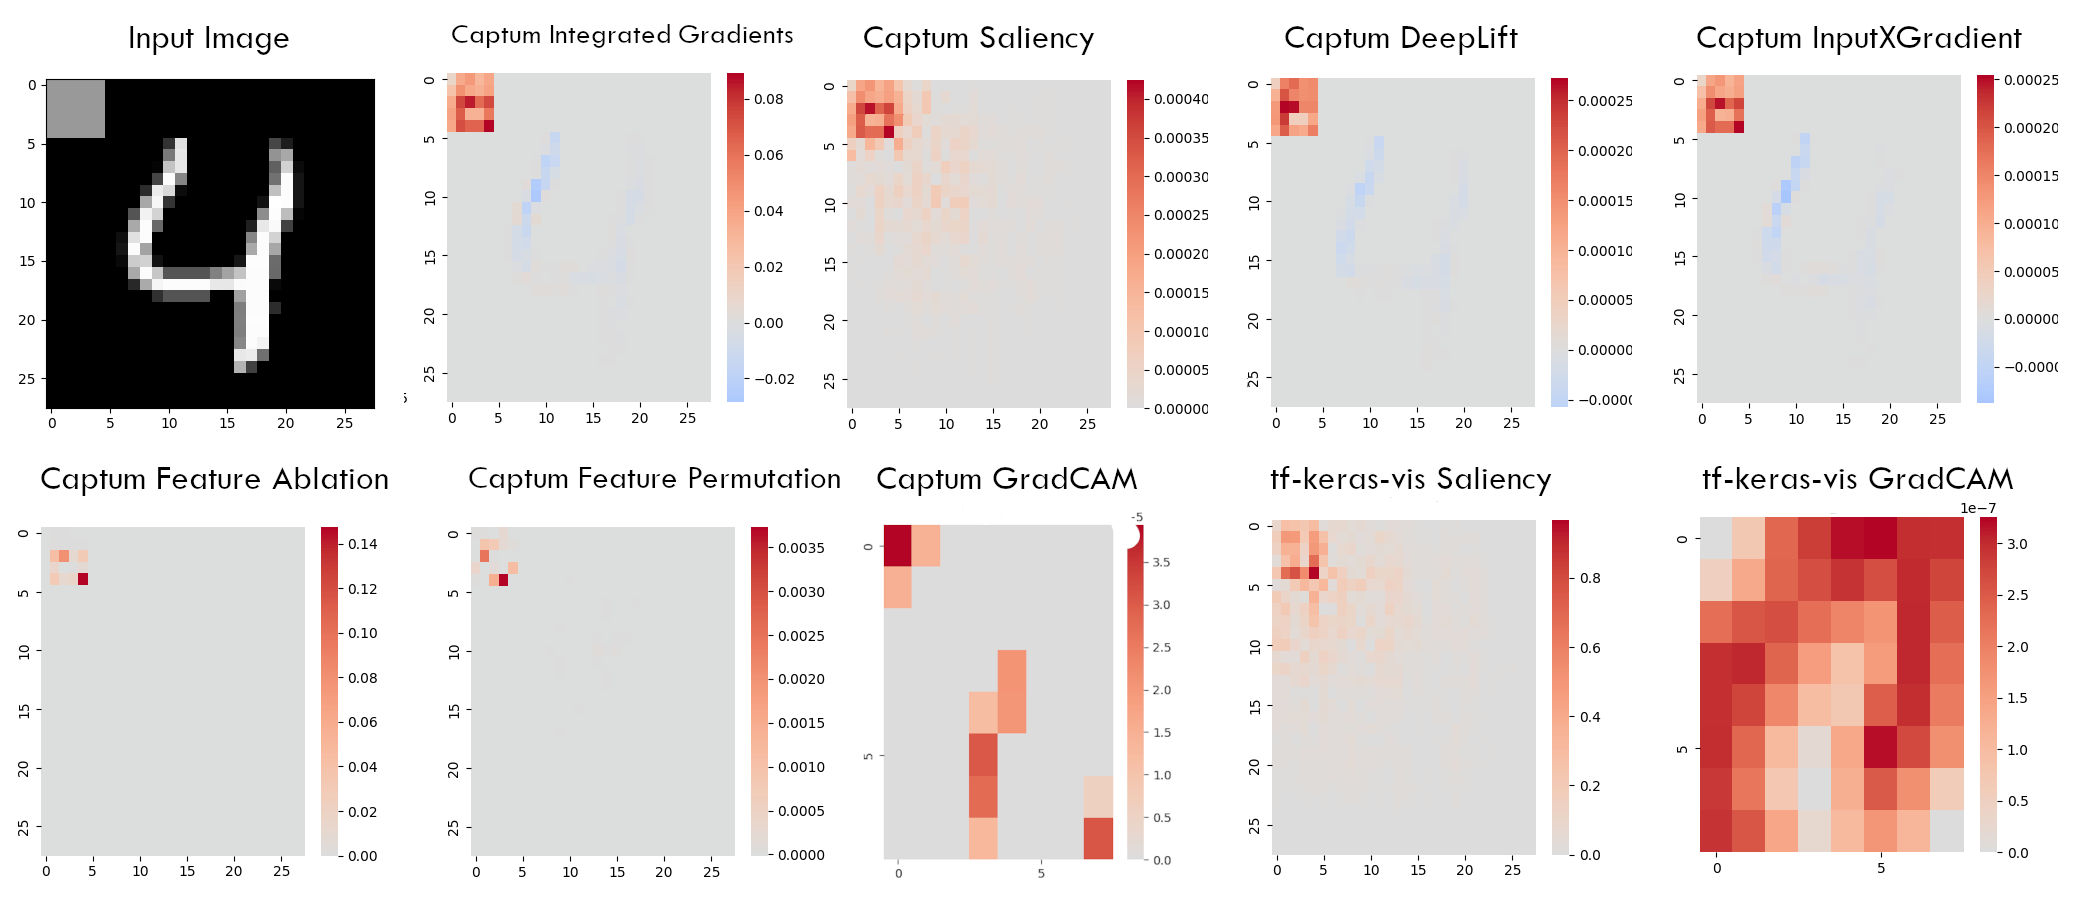
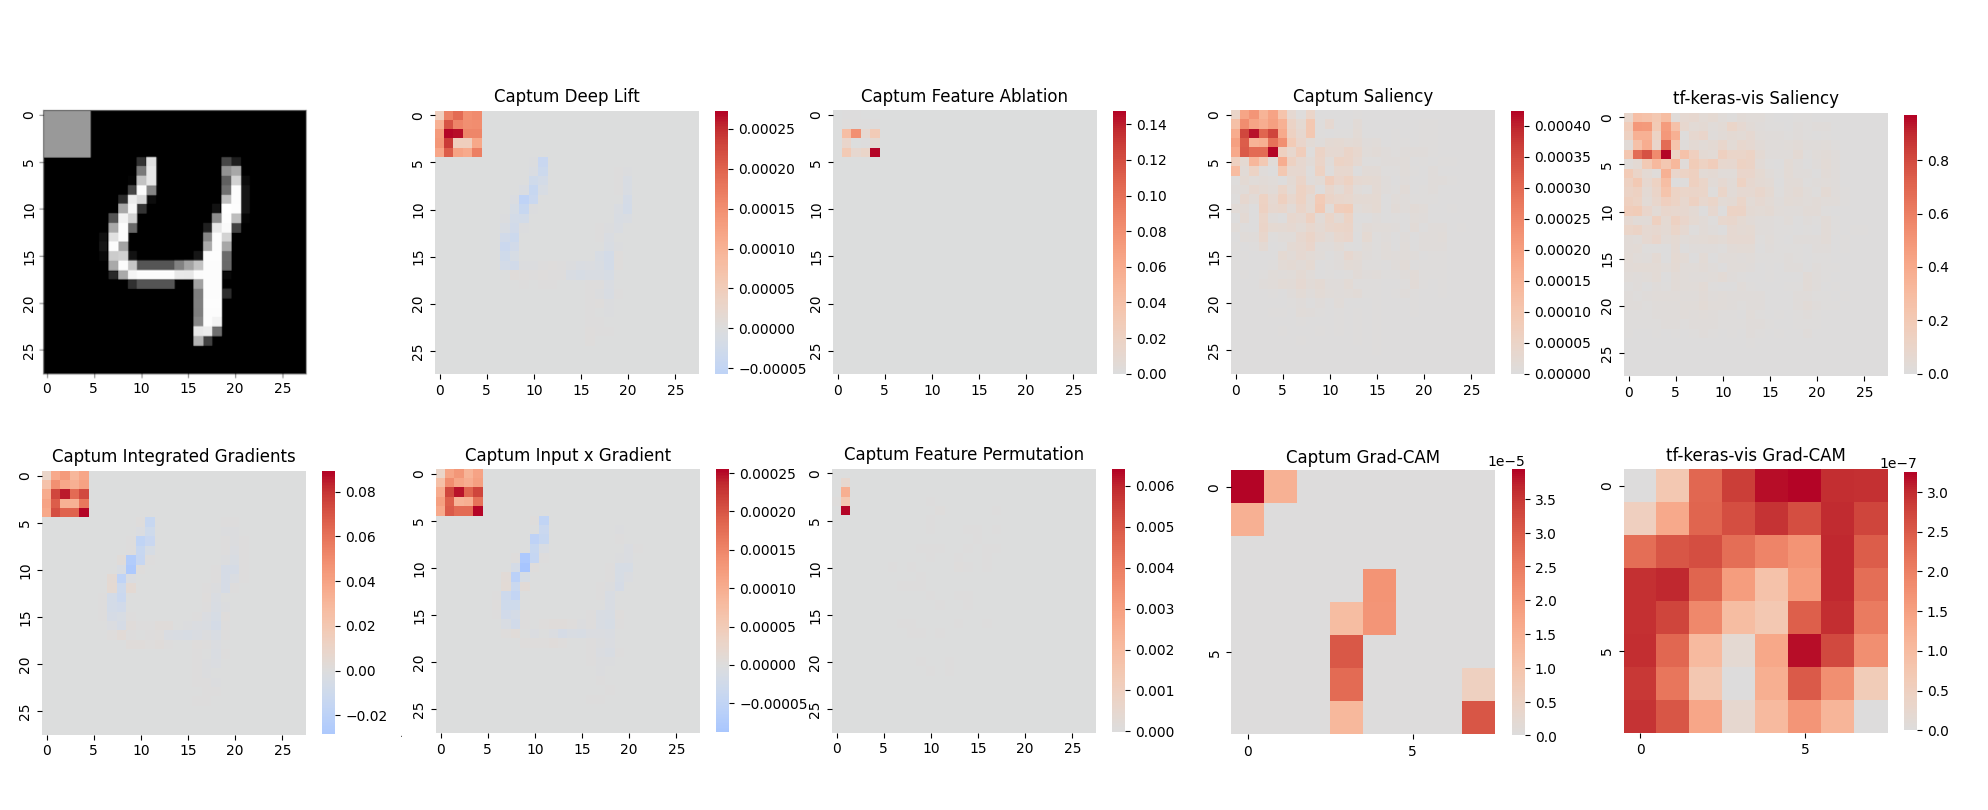
update evaluation figures

diff --git a/unittests/compare_captum_tf_keras_vis.py b/unittests/compare_captum_tf_keras_vis.py
@@ -44,7 +44,8 @@ def torch_saliency(use_additional_args=True):
                                            dummy_input=mnist_x, init_args=keras_vis_init_args,
                                            exec_args=keras_vis_exec_args)
     n_samples = 8  # mnist_x.size()[0]
-    plot(mnist_x, mnist_y, res_captum, res_tf_keras_vis, n_samples, 'Saliency', 'comparison_torch_saliency.png')
+    plot(mnist_x, mnist_y, res_captum, res_tf_keras_vis, n_samples, 'Saliency',
+         f'comparison_torch_saliency{"_add_args" if use_additional_args else ""}.png')
 
 
 def torch_gradcam(interpolate=False, use_additional_args=True):
@@ -74,8 +75,8 @@ def torch_gradcam(interpolate=False, use_additional_args=True):
                                            dummy_input=mnist_x,
                                            exec_args=keras_vis_exec_args)
     n_samples = 8  # mnist_x.size()[0]
-    file_name = 'comparison_torch_gradcam_scaled_to_original.png' if interpolate else 'comparison_torch_gradcam.png'
-    plot(mnist_x, mnist_y.tolist(), res_captum, res_tf_keras_vis, n_samples, 'GradCAM', file_name)
+    file_name = f'comparison_torch{"_add_args" if use_additional_args else ""}_gradcam{"_scaled_to_original" if interpolate else ""}.png'
+    plot(mnist_x, mnist_y.tolist(), res_captum, res_tf_keras_vis, n_samples, 'Grad-CAM', file_name)
 
 
 def tf_saliency(use_additional_args=True):
@@ -96,7 +97,7 @@ def tf_saliency(use_additional_args=True):
                                            exec_args=keras_vis_exec_args)
     n_samples = 8  # mnist_x.shape[0]
     plot(mnist_x, mnist_y, res_captum, res_tf_keras_vis, n_samples, 'Saliency',
-         'comparison_tf_saliency_no_model_modifier.png')
+         f'comparison_tf_saliency{"_add_args" if use_additional_args else ""}.png')
 
 
 def tf_gradcam(interpolate=False, use_additional_args=True):
@@ -128,10 +129,10 @@ def tf_gradcam(interpolate=False, use_additional_args=True):
                                            dummy_input=mnist_x[:64], init_args={},
                                            exec_args=keras_vis_exec_args)
     n_samples = 8  # mnist_x.shape[0]
-    file_name = 'comparison_tf_gradcam_scaled_to_original.png' if interpolate else 'comparison_tf_gradcam.png'
+    file_name = f'comparison_tf{"_add_args" if use_additional_args else ""}_gradcam{"_scaled_to_original" if interpolate else ""}.png'
     if not isinstance(res_tf_keras_vis, np.ndarray):
         res_tf_keras_vis = res_tf_keras_vis.numpy()
-    plot(mnist_x, mnist_y, res_captum, res_tf_keras_vis, n_samples, 'GradCAM', file_name)
+    plot(mnist_x, mnist_y, res_captum, res_tf_keras_vis, n_samples, 'Grad-CAM', file_name)
 
 
 def plot(data_x, data_y, res_captum, res_tf_keras_vis, n_samples, methodname, filename):
@@ -154,15 +155,18 @@ def plot(data_x, data_y, res_captum, res_tf_keras_vis, n_samples, methodname, fi
         figure.add_subplot(4, n_samples, counter + n_samples)
         plt.title(f'Captum {methodname}')
         seaborn.heatmap(res_captum[i].squeeze(), cmap="coolwarm",  # vmin=-attr_total_max, vmax=attr_total_max,
-                        center=0, xticklabels=5, yticklabels=5)
+                        center=0, xticklabels=5, yticklabels=5, square=True,
+                        cbar_kws={'shrink': 0.8, 'pad': 0.05})
         figure.add_subplot(4, n_samples, counter + 2 * n_samples)
         plt.title(f'tf-keras-vis {methodname}')
         seaborn.heatmap(res_tf_keras_vis[i], cmap="coolwarm",  # vmin=-attr_total_max, vmax=attr_total_max,
-                        center=0, xticklabels=5, yticklabels=5)
+                        center=0, xticklabels=5, yticklabels=5, square=True,
+                        cbar_kws={'shrink': 0.8, 'pad': 0.05})
         figure.add_subplot(4, n_samples, counter + 3 * n_samples)
         plt.title('Captum - tf-keras-vis')
         seaborn.heatmap(res_captum[i].squeeze() - res_tf_keras_vis[i],  # vmin=-diff_total_max, vmax=diff_total_max,
-                        cmap="coolwarm", center=0, xticklabels=5, yticklabels=5)
+                        cmap="coolwarm", center=0, xticklabels=5, yticklabels=5, square=True,
+                        cbar_kws={'shrink': 0.8, 'pad': 0.05})
         # figure.add_subplot(6, n_samples, counter + 4 * n_samples)
         # plt.title('Captum / (Captum + tf-keras-vis)')
         # seaborn.heatmap(res_captum[i].squeeze() / (res_captum[i].squeeze() + res_tf_keras_vis[i]), cmap="coolwarm",
@@ -198,9 +202,13 @@ def ceil_power_of_10(x):
 if __name__ == '__main__':
     # gradcam: don't combine interpolate=False and use_additional_args=False -> without additional args, tf-keras-vis
     # interpolates by default, leading to a size-mismatch with captum
-    # tf_gradcam(interpolate=False, use_additional_args=False)
-    tf_gradcam(interpolate=True, use_additional_args=False)
-    # torch_gradcam(interpolate=False, use_additional_args=False)
+    # tf_gradcam(interpolate=False, use_additional_args=True)
+    # tf_gradcam(interpolate=True, use_additional_args=False)
+    # tf_gradcam(interpolate=True, use_additional_args=True)
+    # torch_gradcam(interpolate=False, use_additional_args=True)
     # torch_gradcam(interpolate=True, use_additional_args=False)
-    # torch_saliency(use_additional_args=False)
-    # tf_saliency(use_additional_args=False)
+    # torch_gradcam(interpolate=True, use_additional_args=True)
+    torch_saliency(use_additional_args=False)
+    torch_saliency(use_additional_args=True)
+    tf_saliency(use_additional_args=False)
+    tf_saliency(use_additional_args=True)

diff --git a/unittests/TestCleverHans.py b/unittests/TestCleverHans.py
@@ -50,15 +50,35 @@ class TestCleverHans(unittest.TestCase):
                 seaborn.heatmap(attr[i].squeeze(), cmap="coolwarm",  # vmin=-attr_total_max, vmax=attr_total_max,
                                 center=0, xticklabels=5, yticklabels=5, square=True,
                                 cbar_kws={'shrink': 0.8, 'pad': 0.05})
-                plt.savefig('clever_hans_results_captum.png')
+        plt.savefig('clever_hans_results_captum.png', bbox_inches='tight')
         plt.show()
 
     def test_captum_gradcam(self):
         n_samples = 8
-        attr = perform_attribution(self.tf_net, method_keys.GRAD_CAM, plot=True, toolset=toolset_keys.CAPTUM,
+        counter = 1
+        figure = plt.figure(figsize=(5 * n_samples, 10))
+
+        for i in range(n_samples):
+            figure.add_subplot(2, n_samples, counter)
+            counter += 1
+            plt.title(f'Label: {self.y_test[i]}')
+            plt.imshow(self.x_test[i], cmap="gray")
+
+        attr = perform_attribution(self.tf_net, method_keys.GRAD_CAM, plot=False, toolset=toolset_keys.CAPTUM,
                                    init_args={'layer': 'Conv_1'},
                                    exec_args={'inputs': self.x_test[:n_samples], 'target': self.y_test[:n_samples],
                                               'relu_attributions': True})
+        for i in range(n_samples):
+            figure.add_subplot(2, n_samples, counter)
+            counter += 1
+
+            plt.title(f'Captum Grad-CAM')
+            seaborn.heatmap(attr[i].squeeze(), cmap="coolwarm",  # vmin=-attr_total_max, vmax=attr_total_max,
+                            center=0, xticklabels=5, yticklabels=5, square=True,
+                            cbar_kws={'shrink': 0.76, 'pad': 0.05})
+        plt.savefig('clever_hans_captum_gradcam.png', bbox_inches='tight')
+
+    plt.show()
 
     def test_captum_layers(self):
         n_samples = 8
@@ -119,7 +139,7 @@ class TestCleverHans(unittest.TestCase):
                 seaborn.heatmap(attr[i].squeeze(), cmap="coolwarm",  # vmin=-attr_total_max, vmax=attr_total_max,
                                 center=0, xticklabels=5, yticklabels=5, square=True,
                                 cbar_kws={'shrink': 0.76, 'pad': 0.05})
-        plt.savefig('clever_hans_results_tfkerasvis.png')
+        plt.savefig('clever_hans_results_tfkerasvis.png', bbox_inches='tight')
         plt.show()
 
 

diff --git a/results/report.md b/results/report.md
@@ -17,8 +17,9 @@ the results to draw the right conclusions.
 Different algorithms, called introspection methods, have been developed to counteract this problem. They try to explain
 and visualise a networks's behaviour either by attributing the results to certain parts of either the input or of the
 network itself or alternatively by visualising features a network has learned. An example for attribution is the
-Grad-CAM method which allows to visualise the contribution of different parts in the input toward a classification (see [Figure 1a](#figure1a)). Feature visualization on the other hand can be achieved by optimizing a randomized input
-towards a certain goal such as activating a particular neuron (see [Figure 1b](#figure1b)).
+Grad-CAM method which allows to visualise the contribution of different parts in the input toward a classification (
+see [Figure 1a](#figure1a)). Feature visualisation on the other hand can be achieved by optimising an input towards a
+certain goal such as activating a particular neuron (see [Figure 1b](#figure1b)).
 
 
 <div class="row" style="display: flex">
@@ -27,27 +28,25 @@ towards a certain goal such as activating a particular neuron (see [Figure 1b](#
 <div text-align=center class="caption">Figure 1a: Grad-CAM for the classes 'cat' and 'dog'. Source: <a href="#selvaraju2017">Selvaraju et al., 2017</a></div>
 </div>
 <div class="column" style="padding: 10px;">
-<img id="figure1b" src="report_images/feature_vis_example.png" alt="Feature Visualization for a single neuron using existing images (top) and optimization." height=74%/>
-<div text-align=center class="caption">Figure 1b: Feature Visualization for a single neuron using existing images (top) and optimization. Source: <a href="#olah2017">(Olah et al., 2017)</a></div>
+<img id="figure1b" src="report_images/feature_vis_example.png" alt="Feature Visualisation for a single neuron using existing images (top) and optimisation." height=74%/>
+<div text-align=center class="caption">Figure 1b: Feature Visualisation for a single neuron using existing images (top) and optimisation. Source: <a href="#olah2017">(Olah et al., 2017)</a></div>
 </div>
 </div>
 
 For users' convenience, implementations of many of these methods have been packaged and made publicly available in
 toolsets like [Captum](https://captum.ai/) or [tf-keras-vis](https://github.com/keisen/tf-keras-vis). These libraries
 save users the effort of implementing all methods by themselves and make it easy to switch between and compare different
-methods. One limitation of these preimplemented introspection toolsets however is that they are bould to a specific model
-framework, e.g. [PyTorch](https://pytorch.org/) or [TensorFlow](https://www.tensorflow.org/).
+methods. One limitation of these preimplemented introspection toolsets however is that they are bould to a specific
+model framework, e.g. [PyTorch](https://pytorch.org/) or [TensorFlow](https://www.tensorflow.org/).
 
 In practice, this may lead to situations like the following:
 Imagine you have trained a model in TensorFlow and now want to apply the attribution method Integrated
 Gradients [(Sudararajan, 2017)](#sundararajan2017) to it. You find out that this particular method is already
-implemented in Captum, a PyTorch toolset, but not in the TensorFlow toolset tf-keras-vis. This means you have three
-options: Rebuild your model in PyTorch so you can use the PyTorch toolset, implement the method yourself or don't use
-the method at all.
+implemented in Captum, a PyTorch toolset, but not in the TensorFlow toolset tf-keras-vis. This means that the only way
+to use your desired method is to transform your TensorFlow model into an equivalent PyTorch model.
 
-None of these options is optimal. It would be more convenient and efficient to re-use the already existing Integrated
-Gradients implementation while keeping the TensorFlow model. For bridging the gap between model and introspection
-method, we have developed the tool **MetaNNvis**.
+Since performing this manually requires a lot of effort, we have build a tool, called **MetaNNvis**, that automates this
+process.
 
 MetaNNvis acts as an interface between the user and the introspection methods. The user just puts in their model and
 their favoured introspection method. Based on that, the tool selects an implementation, and, if the framework of the
@@ -64,9 +63,9 @@ will evaluate the tool and use it to compare different implementations of the sa
 # Supported Toolsets
 
 The goal of this project is to connect models and introspection methods from different frameworks. Since TensorFlow,
-more precisely Tensorflow 2.0, and PyTorch are currently the most used machine learning frameworks, the interaction
+more precisely Tensorflow 2.x, and PyTorch are currently the most used machine learning frameworks, the interaction
 between models and methods from these two frameworks is the most interesting application for our approach. Therefore, we
-have chosen one toolset from each framework, Captum from PyTorch and tf-keras-vis from TensorFlow. We will take a closer
+have chosen one toolset for each framework, Captum from PyTorch and tf-keras-vis from TensorFlow. We will take a closer
 look at them in the following.
 
 ## Captum
@@ -81,14 +80,14 @@ open-source and built to be extensible by new algorithms.
 ## tf-keras-vis
 
 The open-source library [tf-keras-vis](https://github.com/keisen/tf-keras-vis) contains visualisation methods for
-TensorFlow 2.0 models. It supports both feature visualisation with activation maximisation as well as attribution
+TensorFlow 2.x models. It supports both feature visualisation with activation maximisation as well as attribution
 methods, more precisely saliency maps and different variants of class activation maps. tf-keras-vis has been developed
 for image inputs and has been designed to be light-weight and flexible.
 
 ## Method selection
 
 Especially Captum implements a large number of methods: 36 in total, counting primary, layer and neuron variants
-seperately. In order to limit the scope of this project, we have chosen prioritize the introspection methods provided by
+seperately. In order to limit the scope of this project, we have chosen prioritise the introspection methods provided by
 Captum and tf-keras-vis. The result can be seen in the table below.
 
 | Method  | Category  | Priority  |
@@ -132,7 +131,7 @@ tool.
 
 The aim of this selection is to capture a wide range of different approaches, for instance including both gradient-based
 and perturbation-based methods. This also means that of similar method pairs like Feature Ablation and Occlusion,
-usually only one method is included. Basic, often-used methods are given an advantage compared to more specialized ones
+usually only one method is included. Basic, often-used methods are given an advantage compared to more specialised ones
 as well. For this reson, GradCAM for example has a higher priority than the GradCAM variants. Additionally, methods
 which are known to fail sanity checks ([Adebayo et al., 2018](#adebayo2018); [Sixt et al., 2020](#sixt2020)) such as
 Guided Backpropagation have been excluded.
@@ -313,17 +312,18 @@ Tensorflow, since these methods are implemented in both toolsets.
 
 ### Saliency
 
-Saliency Maps ([Simonyan, 2013](#simonyan2013)) are a basic visualization method for neural networks which use the
+Saliency Maps ([Simonyan, 2013](#simonyan2013)) are a basic visualisation method for neural networks which use the
 gradient of the class score with respect to the input image.
 
 For our purposes, we trained both a TensorFlow and a PyTorch model on the MNIST dataset and applied the Saliency
 implementations of Captum and tf-keras-vis to them.
 [Figure 6](#fig:comparison_saliency) shows the results for one input image. For both models, the results from Captum and
 tf-keras-vis are nearly equal when additional parameters are used (see last row, columns 1 and 3). The additional
-parameters have been chosen deliberately in a way that results in similar results for both implementations. The remaining
-difference, which is several orders of magnitude lower than the method output, can be attributed to minor numerical
-differences resulting from the model translation process. If the default parameters are used, the difference between the
-Captum and tf-keras-vis results is significantly larger (see columns 2 and 4). This happens because tf-keras-vis has
+parameters have been chosen deliberately in a way that results in similar results for both implementations. The
+remaining difference, which is several orders of magnitude lower than the method output, can be attributed to minor
+numerical differences resulting from the model translation process. If the default parameters are used, the difference
+between the Captum and tf-keras-vis results is significantly larger (see columns 2 and 4). This happens because
+tf-keras-vis has
 a `normalize_map` parameter that defaults to `true`, which scales the Saliency Map to values between 0 and 1.
 
 <div class="row" style="display: flex">
